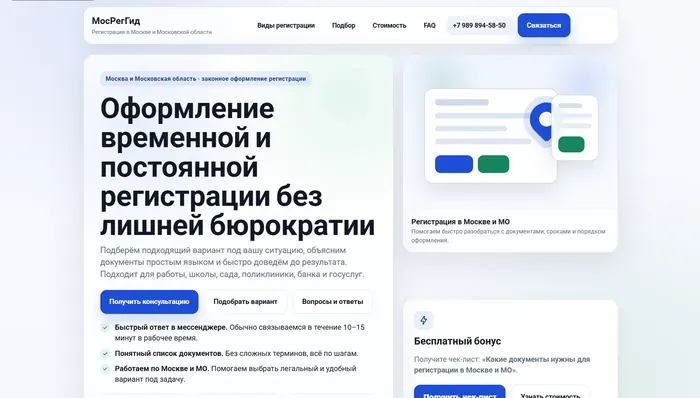
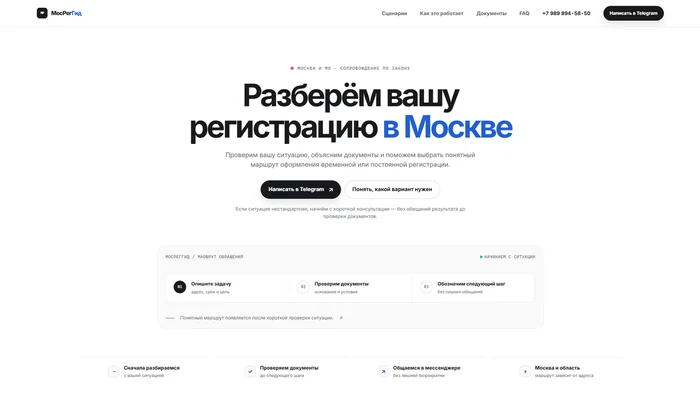
Update MosRegGuide portfolio case

diff --git a/src/data/projects.ts b/src/data/projects.ts
@@ -15,7 +15,7 @@ export const projects: Project[] = [
   },
   {
     id: 'mos-reg-guide', index: '04', title: 'МОСРЕГГИД', category: 'ДОКУМЕНТЫ', format: 'LANDING',
-    url: 'https://mos-reg-guide.vercel.app/', image: '/images/cases/mos-reg-guide.webp', alt: 'Лендинг сервиса регистрации МосРегГид'
+    url: 'https://mos-reg-guide.vercel.app/', image: '/images/cases/mos-reg-guide.webp', alt: 'Новый дизайн сайта МосРегГид с маршрутом оформления регистрации'
   },
   {
     id: 'farm-milk', index: '05', title: 'ФЕРМЕРСКОЕ МОЛОКО', category: 'ПРОДУКТ', format: 'LANDING',
